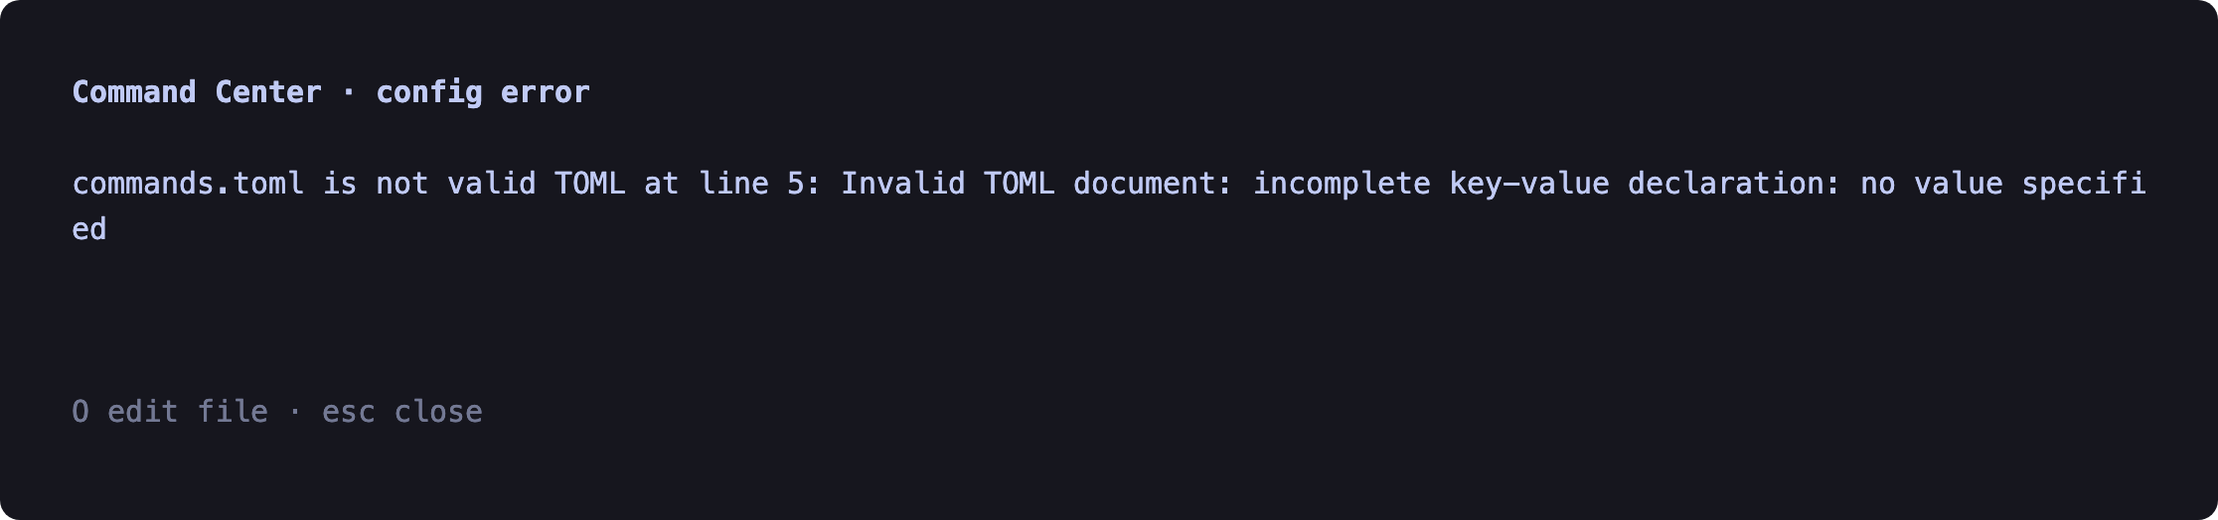
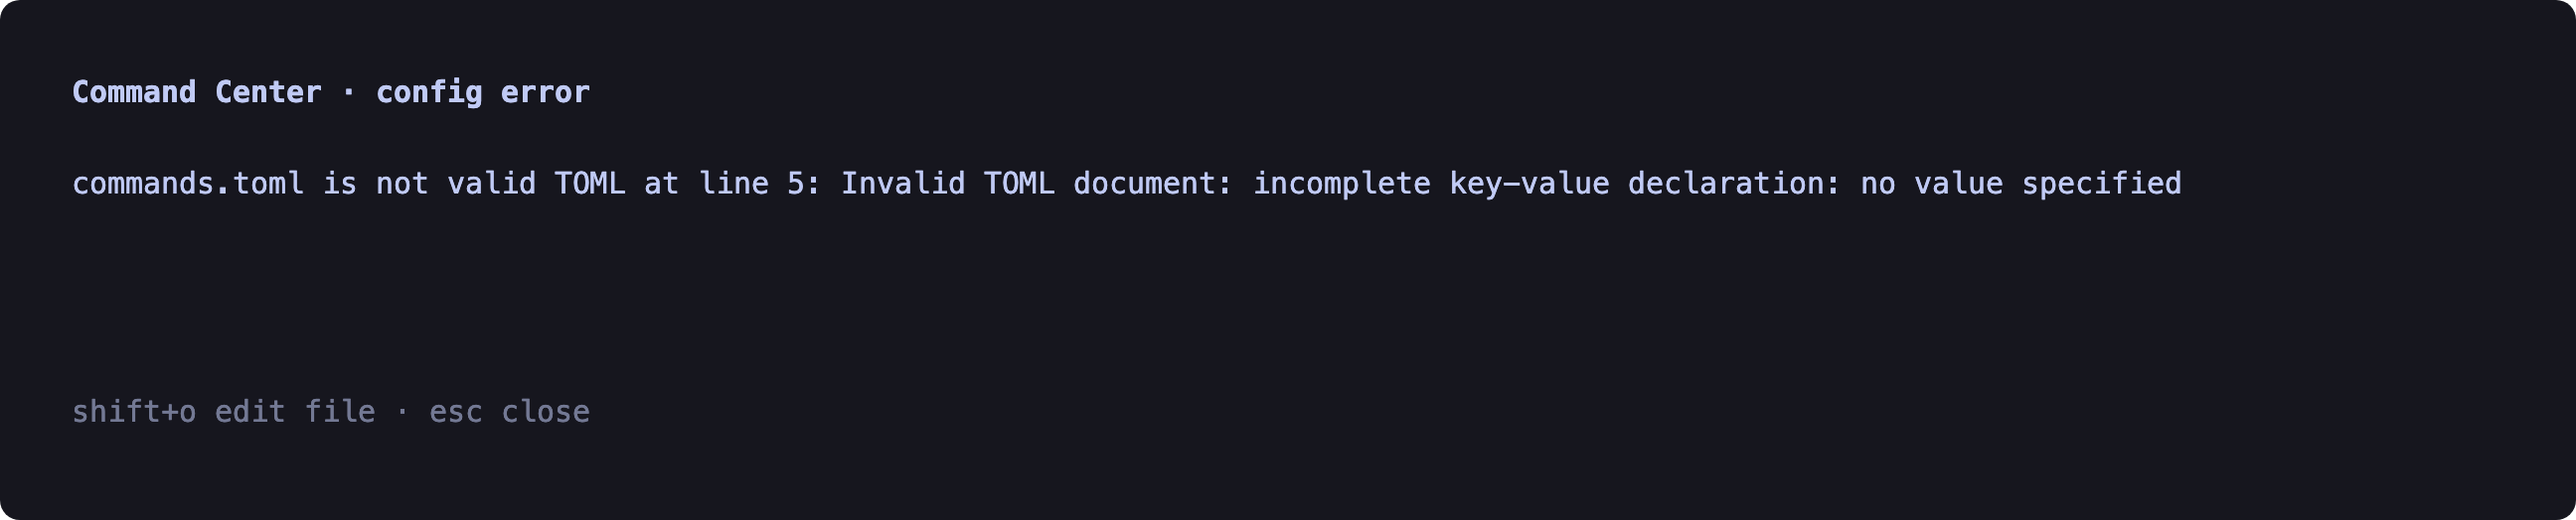
docs: regenerate the screenshots for the shift+key hints
Also widens the captured terminal to 140 columns so the longer footer fits on one
line, which is what it does on a normal-width terminal.

diff --git a/tools/screenshots.py b/tools/screenshots.py
@@ -31,7 +31,7 @@ import unicodedata
 
 REPO = pathlib.Path(__file__).resolve().parent.parent
 WORK = REPO / 'docs' / '.frames'
-COLS = 120
+COLS = 140
 
 DEMO = """schema_version = 1
 editor = ["code --new-window", "nvim"]
